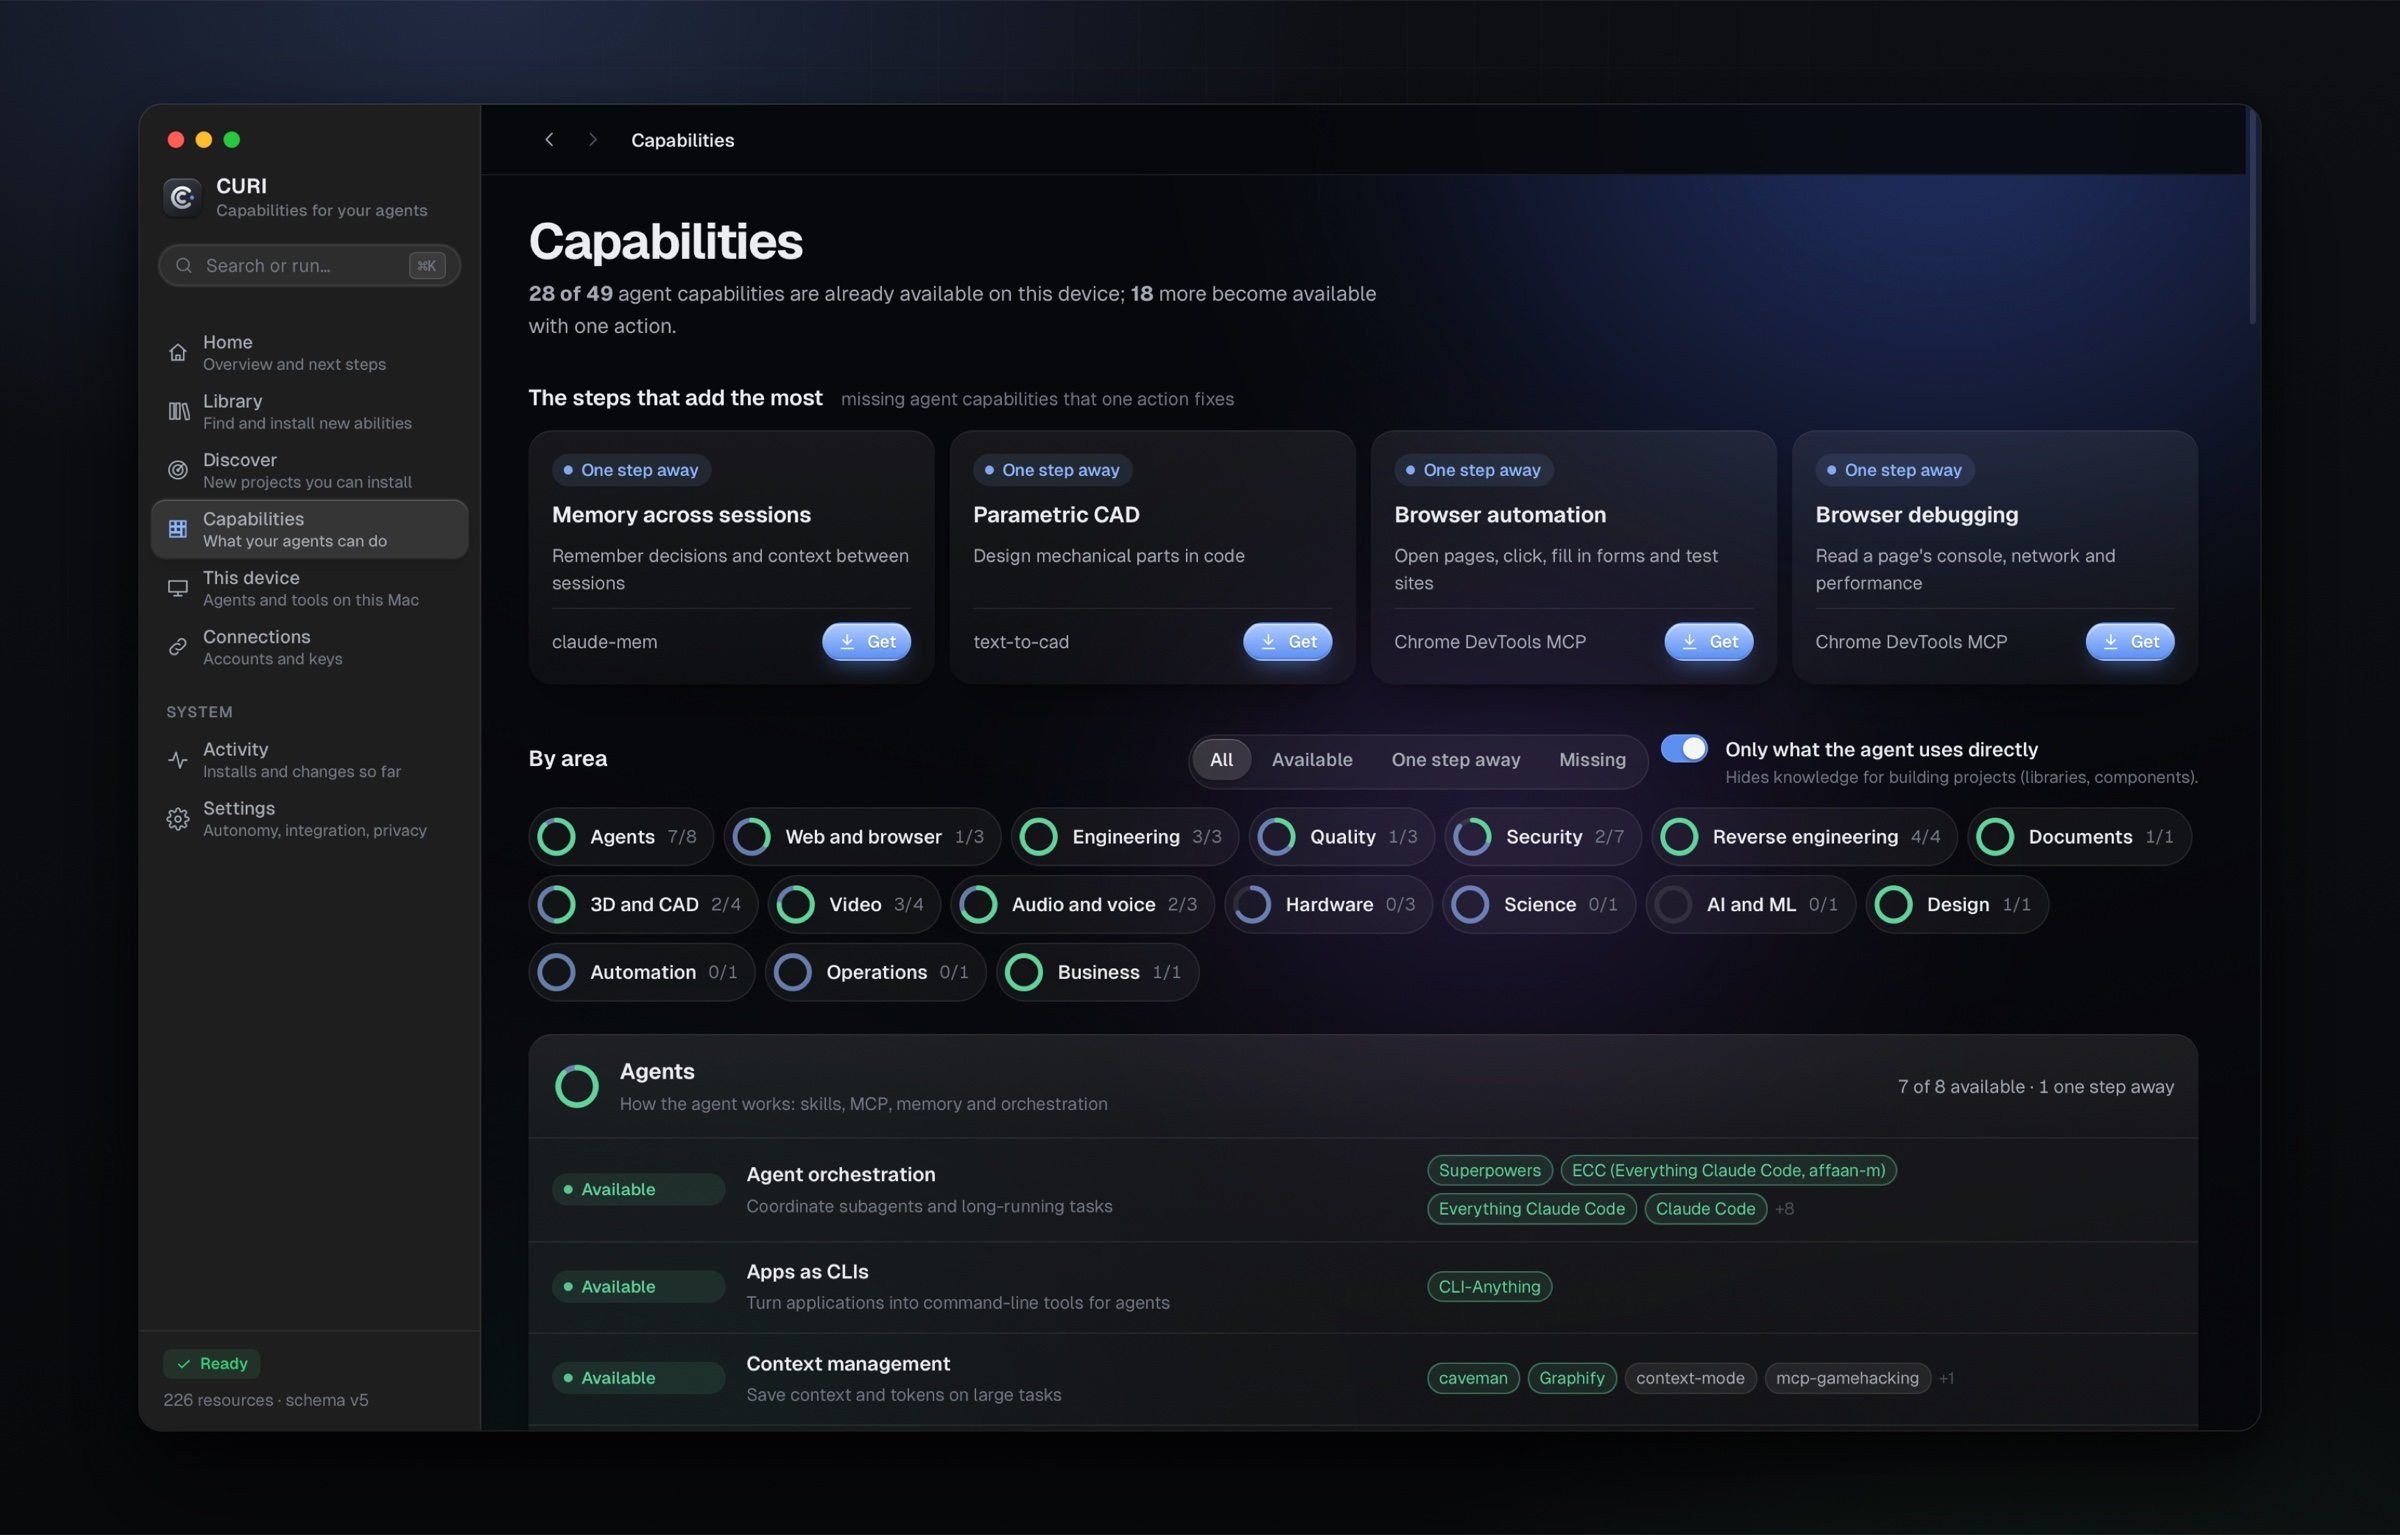
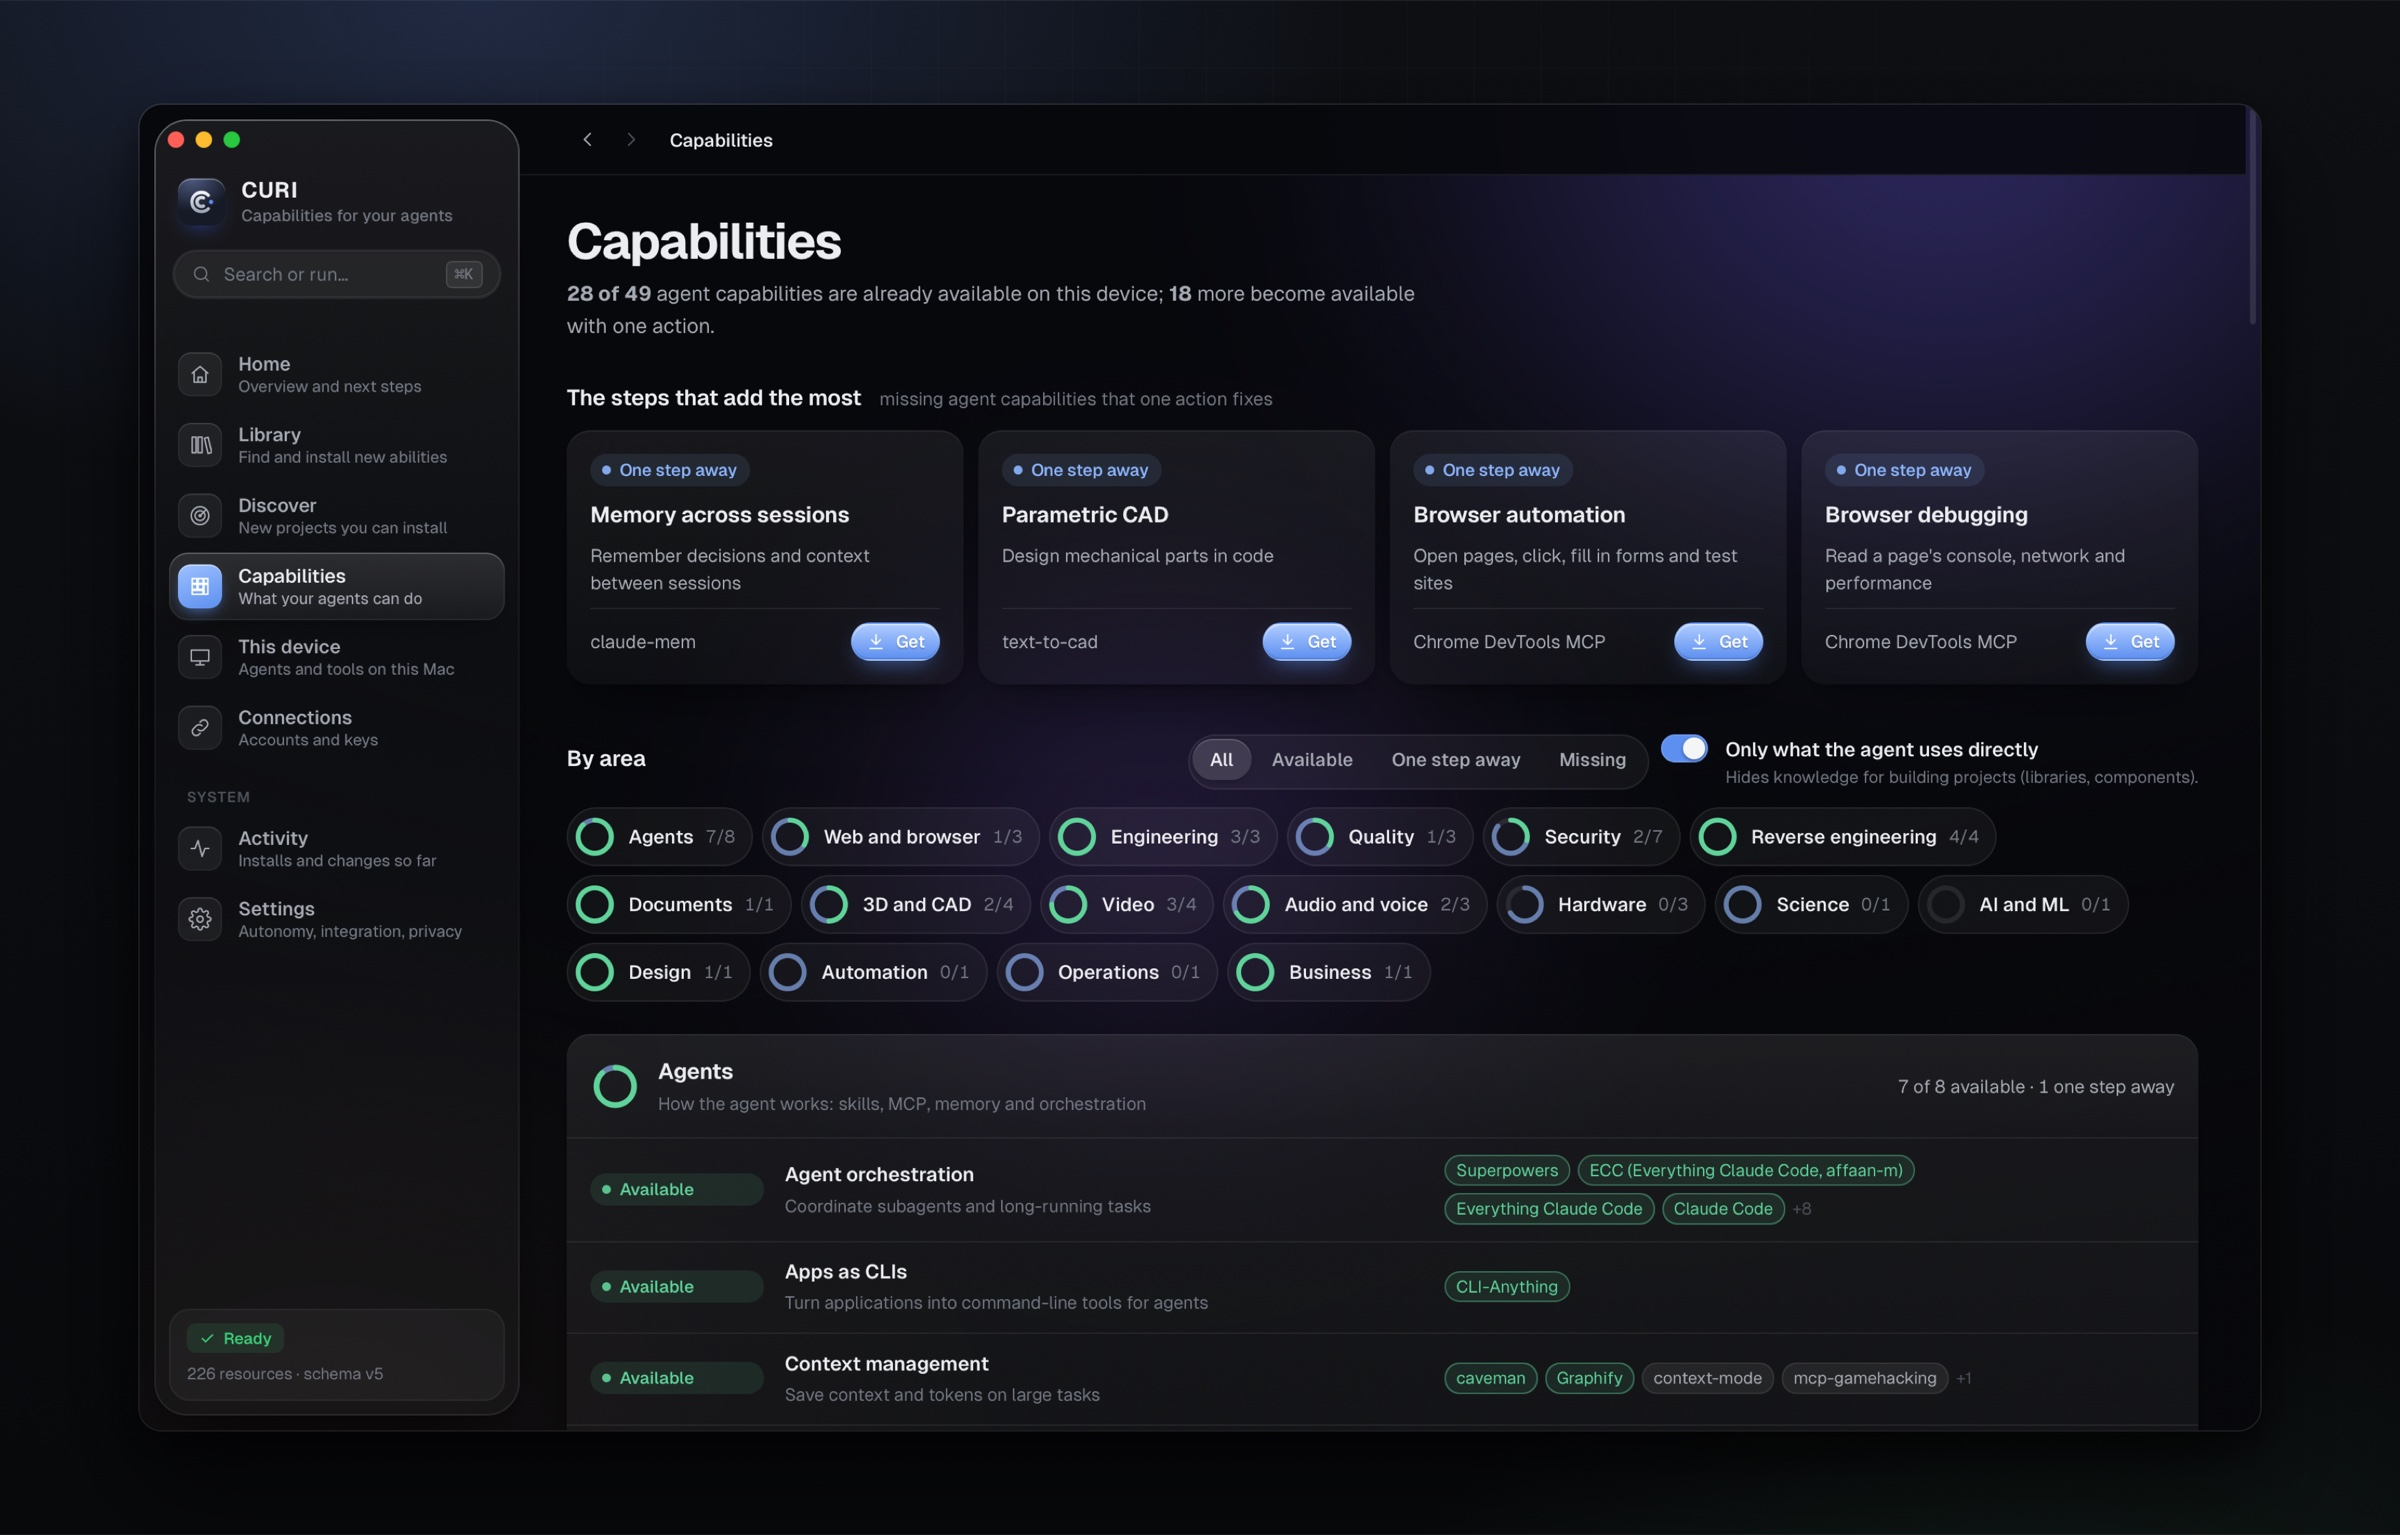
3.5.2: glass sidebar
The sidebar now floats as a pane of glass over the same colour field as
the content, instead of the grey system vibrancy. Section icons sit in
tiles and the current one lights up. Screenshots re-rendered.

diff --git a/app/glass.css b/app/glass.css
@@ -25,6 +25,7 @@
   --rim: var(--glass-rim);
   --hairline: rgba(255, 255, 255, .07);
   --r-lg: 18px; --r-xl: 24px; --r-md: 12px;
+  --sidebar-w: 246px;
 }
 @media (prefers-color-scheme: light) {
   :root:not([data-theme]) {
@@ -132,3 +133,52 @@ textarea { border-radius: var(--r-md); }
 /* Page content gets its own stacking layer so the glass inside it never paints over the top bar. */
 main > .page { position: relative; z-index: 0; isolation: isolate; }
 .pagebar { z-index: 30 !important; }
+
+/* ---------- sidebar: a floating pane of glass over the same field ---------- */
+.aurora, html:not(.native) .aurora { inset: 0; left: 0; }
+@media (max-width: 900px) { .aurora { left: 0; } }
+.shell { grid-template-columns: calc(var(--sidebar-w) + 12px) 1fr; }
+.sidebar, html.native .sidebar {
+  margin: 10px 0 10px 10px; border-radius: 22px; border-right: 0; z-index: 2; overflow: hidden;
+  background: linear-gradient(180deg, rgba(255,255,255,.075), rgba(255,255,255,.025) 40%, rgba(255,255,255,.04));
+  -webkit-backdrop-filter: blur(44px) saturate(190%); backdrop-filter: blur(44px) saturate(190%);
+  box-shadow: 0 1px 0 rgba(255,255,255,.08) inset, 0 30px 60px -30px rgba(0,0,0,.7), 0 8px 24px -12px rgba(0,0,0,.45);
+}
+.sidebar::before { content: ""; position: absolute; inset: 0; border-radius: inherit; padding: 1px; background: var(--glass-rim); pointer-events: none; z-index: 3;
+  -webkit-mask: linear-gradient(#000 0 0) content-box, linear-gradient(#000 0 0); -webkit-mask-composite: xor; mask-composite: exclude; }
+html.native .sidebar { padding-top: calc(var(--titlebar-h) - 10px); }
+html:not(.native) .sidebar { padding-top: 18px; }
+:root[data-theme="light"] .sidebar { background: linear-gradient(180deg, rgba(255,255,255,.72), rgba(255,255,255,.5)); }
+@media (prefers-color-scheme: light) { :root:not([data-theme]) .sidebar { background: linear-gradient(180deg, rgba(255,255,255,.72), rgba(255,255,255,.5)); } }
+
+.brand { padding: 2px 16px 16px; gap: 11px; }
+.brand-mark { width: 32px; height: 32px; border-radius: 9px; background: radial-gradient(120% 100% at 30% 0%, #4d5a80, #161a26 70%); box-shadow: inset 0 1px 0 rgba(255,255,255,.28), 0 6px 14px -6px rgba(60, 100, 255, .55); }
+.brand-name { font: 700 15px/1 var(--font-display); letter-spacing: .04em; }
+.search-trigger { margin: 0 12px 14px; height: 34px; padding: 0 12px; background: rgba(255,255,255,.06); box-shadow: inset 0 0 0 1px rgba(255,255,255,.07), inset 0 1px 2px rgba(0,0,0,.2); }
+
+.nav { padding: 0 10px 12px; }
+.nav-group { margin-top: 14px; }
+.nav-group > .micro { padding: 4px 12px 6px; font-size: 10px; color: var(--ink-4); }
+.nav a { gap: 11px; border-radius: 13px; padding: 0 10px 0 6px; transition: color var(--d-fast) ease, background var(--d-fast) ease; }
+.nav a:has(.nav-txt small) { min-height: 46px; padding-top: 6px; padding-bottom: 6px; }
+.nav a + a { margin-top: 2px; }
+@media (hover: hover) and (pointer: fine) { .nav a:not([aria-current="page"]):hover { background: rgba(255,255,255,.045); } }
+/* Icons sit in small tiles; the current page's tile lights up. */
+.nav a > svg.i { flex: none; width: 30px; height: 30px; padding: 7px; border-radius: 9px; color: var(--ink-2);
+  background: rgba(255,255,255,.06); box-shadow: inset 0 1px 0 rgba(255,255,255,.08), inset 0 0 0 1px rgba(255,255,255,.04);
+  transition: background var(--d-base) ease, color var(--d-base) ease, box-shadow var(--d-base) ease; }
+.nav a[aria-current="page"] > svg.i { color: #fff; background: linear-gradient(160deg, color-mix(in srgb, var(--signal) 85%, white), var(--signal-strong));
+  box-shadow: inset 0 1px 0 rgba(255,255,255,.45), 0 4px 12px -4px color-mix(in srgb, var(--signal-strong) 90%, transparent); }
+.nav-txt > span { font-size: 13px; font-weight: 560; }
+.nav-txt small { font-size: 11px; }
+.nav-indicator { left: 10px; right: 10px; border-radius: 13px;
+  background: linear-gradient(180deg, rgba(255,255,255,.12), rgba(255,255,255,.05));
+  box-shadow: inset 0 1px 0 rgba(255,255,255,.18), inset 0 0 0 1px rgba(255,255,255,.06), 0 8px 20px -10px rgba(0,0,0,.6); }
+:root[data-theme="light"] .nav-indicator { background: rgba(255,255,255,.9); }
+
+.sidebar-foot { margin: 0 10px 10px; padding: 10px 12px; border-top: 0; border-radius: 14px; background: rgba(255,255,255,.04); box-shadow: inset 0 0 0 1px rgba(255,255,255,.05); }
+.sidebar-foot .row { font-size: 11px; }
+@media (max-width: 900px) {
+  .shell { grid-template-columns: 74px 1fr; }
+  .nav a > svg.i { margin: 0 auto; }
+}

diff --git a/CHANGELOG.md b/CHANGELOG.md
@@ -1,5 +1,12 @@
 # Changelog
 
+## 3.5.2 - 2026-10-29
+
+- New sidebar that matches the rest of the app: a floating pane of glass over the same colour field, instead of the grey system sidebar.
+- Each section's icon sits in a small tile, and the current one lights up in blue inside a glass capsule.
+- Wider, so the short descriptions under each section fit; the status at the bottom is its own small card.
+- Fresh screenshots.
+
 ## 3.5.1 - 2026-10-29
 
 - ⌘Q, the Dock's "Quit" and the app menu now send CURI back to the menu bar instead of closing it. "Quit CURI" in the menu bar icon is the only way to stop it.

diff --git a/README.md b/README.md
@@ -2,7 +2,7 @@
 
 <p align="center">
   <img alt="macOS 13+" src="https://img.shields.io/badge/macOS-13%2B-1b1c21?style=flat-square&logo=apple&logoColor=white">
-  <img alt="Version 3.5.1" src="https://img.shields.io/badge/version-3.5.1-6e96ff?style=flat-square">
+  <img alt="Version 3.5.2" src="https://img.shields.io/badge/version-3.5.2-6e96ff?style=flat-square">
   <img alt="Runs locally" src="https://img.shields.io/badge/runs-100%25%20local-5fd39a?style=flat-square">
   <img alt="MIT licence" src="https://img.shields.io/badge/licence-MIT-a6aab3?style=flat-square">
 </p>
